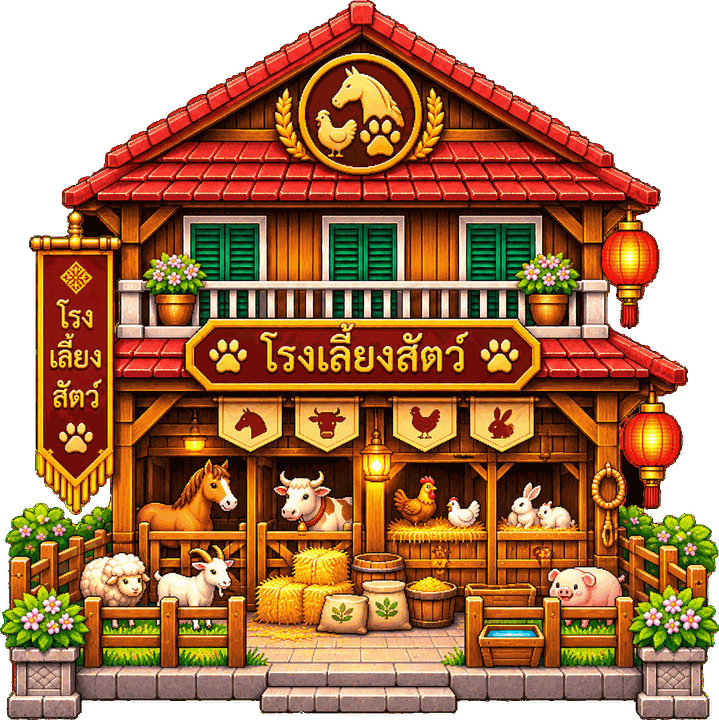
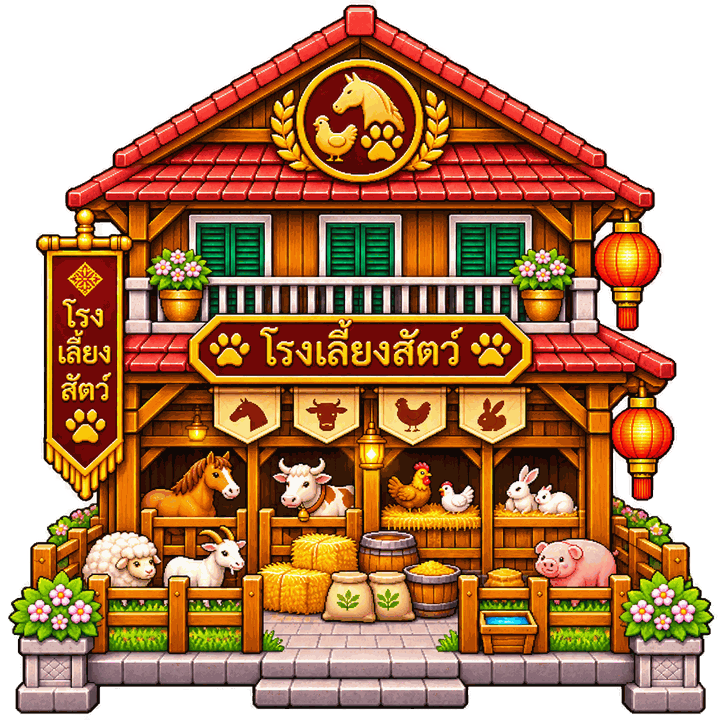
v262: the stable's picture replaced by the owner's new upload (transparent)
Claude-Session: https://claude.ai/code/session_014wFmWGCviaZX45qxFt5PbG

diff --git a/docs/UPDATES.md b/docs/UPDATES.md
@@ -25,7 +25,7 @@
 - ร้านตีบวก (อาคารของช่างตีบวก เดิมชื่อโรงตีเหล็ก) ใช้ภาพของเจ้าของเกม (`assets/buildings/smithy.png` 720 px · 161 KB)
 - โรงหลอมแร่ & อุปกรณ์ (อาคารของช่างหลอม) ใช้ภาพของเจ้าของเกม (`assets/buildings/smelter.png` 718 px · 193 KB)
 - ร้านช่างตัดชุดใช้ภาพของเจ้าของเกม (`assets/buildings/tailor.png` 720 px · 170 KB)
-- โรงเลี้ยงสัตว์ (ของคนเลี้ยงสัตว์) ใช้ภาพของเจ้าของเกม (`assets/buildings/beast.png` ตัดพื้นหลังดำออก · 187 KB) · ภาพพื้นหลังดำก็ตัดออกเองได้แล้ว
+- โรงเลี้ยงสัตว์ (ของคนเลี้ยงสัตว์) ใช้ภาพของเจ้าของเกม (`assets/buildings/beast.png` ภาพพื้นใสที่อัปใหม่ · 178 KB) · ภาพพื้นหลังดำก็ตัดออกเองได้แล้ว
 - อาคารอื่นใส่ภาพได้แบบเดียวกัน ดูชื่อไฟล์ใน `assets/buildings/README.md`
 
 ## หอคอยมีชีวิต: ไฟจริง แสงเงา มิติ (v261, 2026-11-07)
